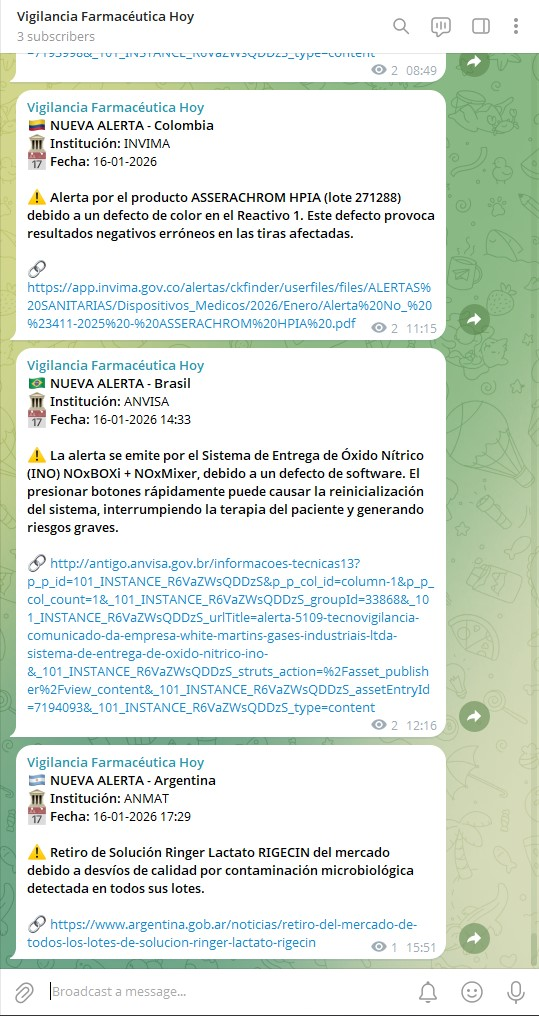
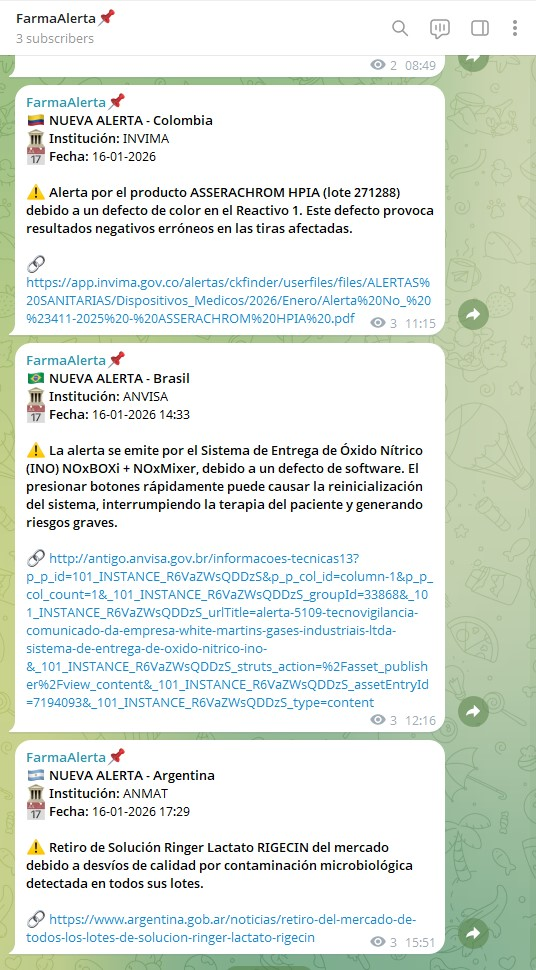
Corrigiendo el readme

diff --git a/README.md b/README.md
@@ -8,13 +8,19 @@
 </p>
 
 <p align="center">
-  <strong>Sistema automatizado de web scraping para la recolección y notificación en tiempo real de alertas sanitarias de agencias reguladoras de Latinoamérica.</strong>
+  <strong>
+    Sistema automatizado de web scraping para la recolección y notificación en tiempo real
+    de alertas sanitarias de agencias reguladoras de Latinoamérica.
+  </strong>
 </p>
 
 <p align="center">
   <img src="Images/chat-telegram.jpg" width="400">
 </p>
----
+
+<p align="center">
+  🔗 <strong><a href="https://t.me/+RZJkxkiG348zNDkx">Canal de Telegram con alertas en tiempo real</a></strong>
+</p>
 
 ## 📋 Descripción
 
